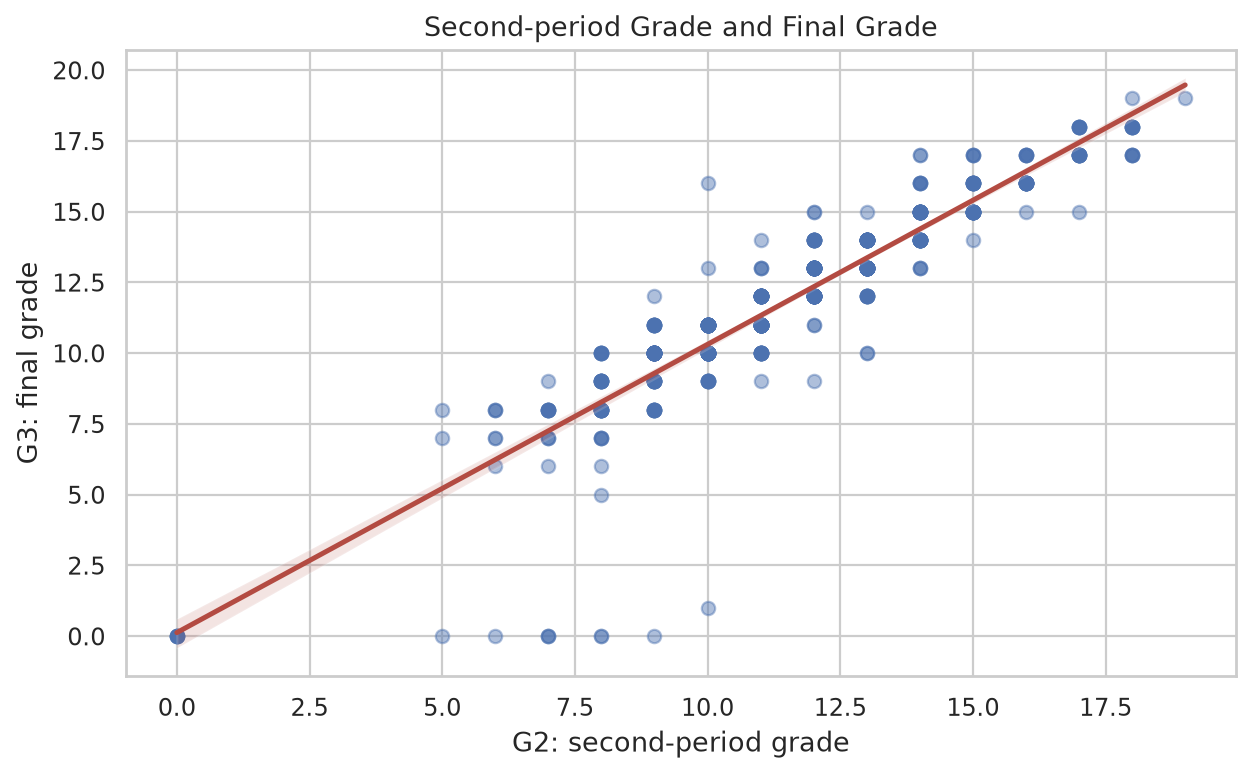
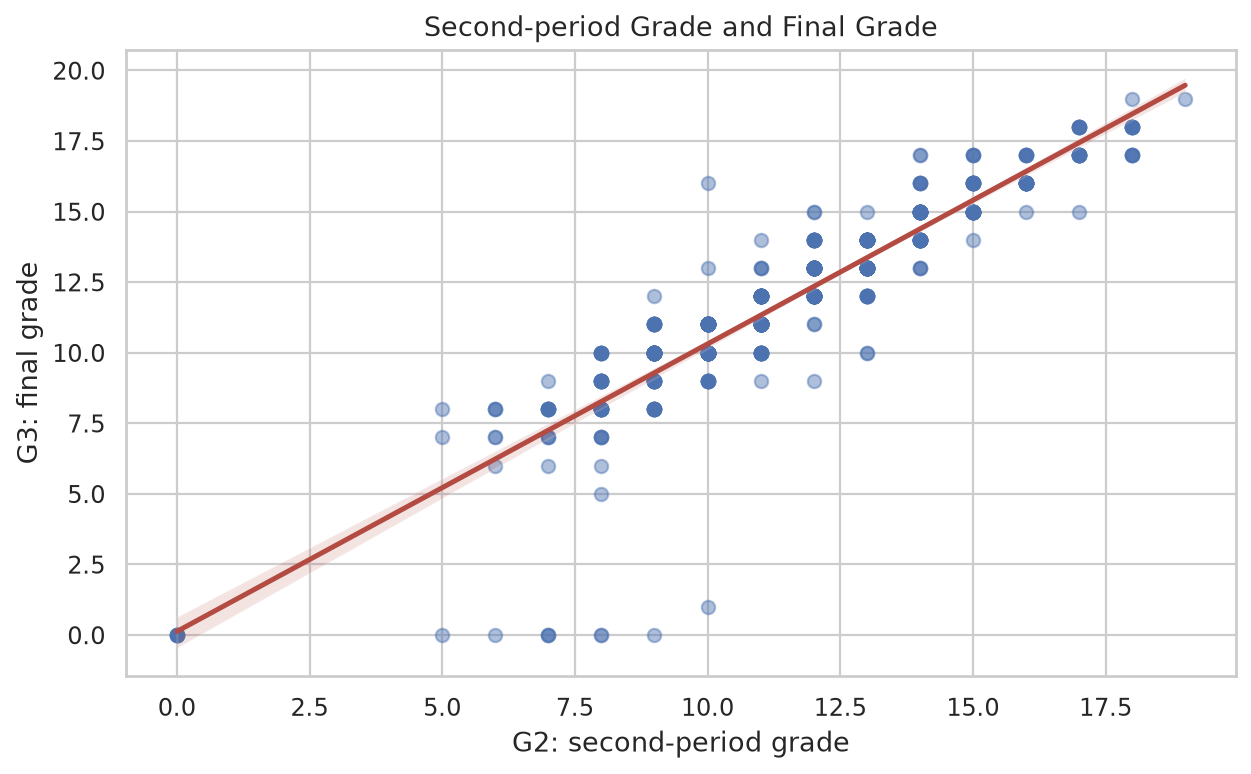
Publish student performance analytics project

diff --git a/docs/index.html b/docs/index.html
@@ -1,0 +1,32 @@
+<!doctype html>
+<html lang="en">
+<head>
+<meta charset="utf-8"><meta name="viewport" content="width=device-width, initial-scale=1">
+<meta name="description" content="Education Performance Analytics: reproducible student final-grade regression using the UCI Student Performance dataset.">
+<title>Education Performance Analytics</title>
+<style>
+:root{--ink:#14263d;--muted:#5a6d82;--paper:#f4f7f8;--panel:#fff;--accent:#147d75;--line:#dbe4e9;--warm:#edaa61}*{box-sizing:border-box}body{margin:0;background:var(--paper);color:var(--ink);font:16px/1.65 system-ui,-apple-system,"Segoe UI",sans-serif}a{color:var(--accent)}.hero{padding:clamp(2rem,7vw,6rem) max(7vw,calc((100vw - 1120px)/2));background:linear-gradient(125deg,#102239,#1a4760);color:#f7fbfc;position:relative;overflow:hidden}.hero:after{content:"G3";position:absolute;right:7vw;top:5%;font-size:clamp(8rem,24vw,19rem);font-weight:800;color:#ffffff0d;line-height:1}.eyebrow{text-transform:uppercase;letter-spacing:.16em;color:#93d5c6;font-size:.78rem;font-weight:700}.hero h1{font-size:clamp(2.3rem,6vw,4.7rem);line-height:1.04;max-width:750px;margin:.7rem 0 1rem;position:relative;z-index:1}.hero p{max-width:700px;color:#d3e3e9;font-size:1.1rem}.hero a{color:#a2e4d0}.wrap{max-width:1120px;margin:auto;padding:2rem 1.3rem 4rem}.metrics{display:grid;grid-template-columns:repeat(4,1fr);gap:1rem;margin-top:-2rem;position:relative}.card{background:var(--panel);border:1px solid var(--line);border-radius:14px;padding:1.2rem;box-shadow:0 8px 28px #1234}.metric strong{display:block;font-size:1.8rem;letter-spacing:-.03em;color:var(--accent)}.metric span{font-size:.9rem;color:var(--muted)}section{margin-top:3.2rem}h2{font-size:1.7rem;line-height:1.2}h3{margin:.3rem 0}.note{border-left:4px solid var(--warm);padding:.8rem 1rem;background:#fff9ef;border-radius:0 10px 10px 0}.grid{display:grid;grid-template-columns:repeat(2,1fr);gap:1rem}.figure{margin:0;overflow:hidden}.figure img{display:block;width:100%;height:auto;border-radius:8px;border:1px solid var(--line)}.figure figcaption{font-size:.92rem;color:var(--muted);padding:.7rem 0}.pill{display:inline-block;border:1px solid #aad8cd;background:#edf8f5;color:#17675f;padding:.25rem .65rem;border-radius:999px;font-size:.82rem;margin:.2rem}.footer{border-top:1px solid var(--line);margin-top:3rem;padding-top:1rem;color:var(--muted);font-size:.9rem}code{background:#e8eef1;padding:.1rem .3rem;border-radius:4px}@media(max-width:720px){.metrics{grid-template-columns:repeat(2,1fr)}.grid{grid-template-columns:1fr}.hero:after{right:-3rem;top:25%}}
+</style>
+</head>
+<body>
+<header class="hero"><div class="eyebrow">Reproducible data science · Regression</div><h1>Education Performance Analytics</h1><p>A transparent student-success prediction project estimating a final course grade from prior academic results and documented background features—built for learning, not automated decisions.</p><p><a href="https://github.com/Vignesh6989348/education-performance-analytics">Browse the project repository</a> · <a href="https://archive.ics.uci.edu/dataset/320/student+performance">Dataset source: UCI</a></p></header>
+<main class="wrap">
+<div class="metrics" aria-label="Final held-out evaluation metrics">
+<div class="card metric"><strong>649</strong><span>Portuguese-course records</span></div>
+<div class="card metric"><strong>0.767</strong><span>Test MAE · grade points</span></div>
+<div class="card metric"><strong>1.219</strong><span>Test RMSE · grade points</span></div>
+<div class="card metric"><strong>0.848</strong><span>Test R²</span></div>
+</div>
+<section><h2>What is being predicted?</h2><div class="card"><p><strong>Target:</strong> <code>G3</code>, the final-period grade on a 0–20 scale. Prediction is made <strong>after G2</strong> (second-period grade) is available. Earlier grades <code>G1</code> and <code>G2</code> are inputs; <code>G3</code> is never a feature.</p><p>UCI's Portuguese-course file contains 649 records. The project compares a mean baseline, Linear Regression, Random Forest, and Extra Trees. Model selection uses a validation split; the separate test partition is kept for final reporting. The selected Extra Trees test scores shown above are measured from model predictions, not invented metrics.</p><span class="pill">60% train</span><span class="pill">20% validation</span><span class="pill">20% test</span><span class="pill">random_state=42</span></div></section>
+<section><h2>Results and exploration</h2><p>All charts use source data or held-out predictions. Correlation and feature importance describe associations or model reliance—not causation.</p><div class="grid">
+<figure class="card figure"><img src="assets/01_g3_distribution.png" alt="Histogram of observed final grades"><figcaption><strong>Final-grade distribution.</strong> Shows the observed spread of G3 scores in the source subset.</figcaption></figure>
+<figure class="card figure"><img src="assets/02_g2_vs_g3.png" alt="Second-period grade plotted against final grade"><figcaption><strong>G2 and G3.</strong> Relates the prior-period grade to the final target.</figcaption></figure>
+<figure class="card figure"><img src="assets/03_numeric_correlations.png" alt="Heatmap of pairwise numeric variable correlations"><figcaption><strong>Numeric correlations.</strong> Pairwise association summary; it does not show causal effects.</figcaption></figure>
+<figure class="card figure"><img src="assets/04_studytime_g3.png" alt="Boxplot of final grades by study-time category"><figcaption><strong>Study-time groups.</strong> Compares G3 by self-reported weekly study-time category.</figcaption></figure>
+<figure class="card figure"><img src="assets/05_model_comparison.png" alt="Test MAE and RMSE by regression model"><figcaption><strong>Model comparison.</strong> Test-set MAE and RMSE in grade points; lower is better.</figcaption></figure>
+<figure class="card figure"><img src="assets/06_actual_vs_predicted.png" alt="Actual and predicted final grades with identity line"><figcaption><strong>Actual vs predicted.</strong> Test predictions against actual G3; the diagonal indicates exact agreement.</figcaption></figure>
+<figure class="card figure"><img src="assets/07_permutation_importance.png" alt="Held-out permutation importance by feature"><figcaption><strong>Permutation importance.</strong> How test-set R² changes when inputs are shuffled; not a causal ranking.</figcaption></figure>
+</div></section>
+<section><h2>Scope, limitations & responsible use</h2><div class="card"><ul><li>The historical dataset describes students from two Portuguese secondary schools. Generalization elsewhere is not established.</li><li>It contains no explicit attendance rate, assignment scores, internal marks, or engagement telemetry. Absences are a count; study time is self-reported.</li><li>Grades and social background can be sensitive. This site presents aggregate evaluation only and does not publish row-level records or student identifiers.</li><li>Predictions are uncertain estimates to support educators—not to determine student opportunities or outcomes automatically.</li></ul><p>Source: Cortez, P. (2008), <a href="https://doi.org/10.24432/C5TG7T">UCI Student Performance (CC BY 4.0)</a>.</p></div></section>
+<footer class="footer">Academic demonstration · Target G3 · <a href="https://github.com/Vignesh6989348/education-performance-analytics">Source code, tests, notebook and measured results on GitHub</a></footer>
+</main></body></html>

diff --git a/src/train.py b/src/train.py
@@ -81,7 +81,7 @@ def run():
     MODEL_DIR.mkdir(exist_ok=True); joblib.dump(best, MODEL_DIR/"selected_model.joblib")
     sample = X_test.iloc[[0]]
     estimate = float(best.predict(sample)[0])
-    summary = f"Selected model: {winner}\nSelection: lowest validation-set MAE, tie-break lower validation RMSE\nFinal untouched test metrics: {regression_metrics(y_test, predictions[winner])}\nSample prediction: {estimate:.2f}/20 (estimate, not guaranteed result)\nSample inputs:\n{sample.to_string(index=False)}\n"
+    summary = f"Selected model: {winner}\nSelection: lowest validation-set MAE, tie-break lower validation RMSE\nFinal untouched test metrics: {regression_metrics(y_test, predictions[winner])}\nDemonstration prediction on a held-out public-dataset record: {estimate:.2f}/20 (estimate, not guaranteed result; row-level input values are intentionally not written to this report)\n"
     (ROOT/"reports"/"run_summary.txt").write_text(summary)
     print(comparison.to_string(index=False, float_format=lambda x: f"{x:.3f}"))
     print(f"\nSelected: {winner}\nExample G3 estimate: {estimate:.2f}/20\nOutputs: reports/ and models/selected_model.joblib")

diff --git a/README.md b/README.md
@@ -2,6 +2,8 @@
 
 A reproducible regression project estimating Portuguese-course final grade (**G3**, scale 0–20) from the UCI Student Performance dataset. It demonstrates acquisition, data checks, EDA, pipelines, model comparison, interpretation, and prediction.
 
+Project overview site: [`docs/index.html`](docs/index.html) (configured for GitHub Pages from the `/docs` folder on `main`).
+
 ## Dataset and design
 - **Source:** [UCI Student Performance](https://archive.ics.uci.edu/dataset/320/student+performance), DOI [10.24432/C5TG7T](https://doi.org/10.24432/C5TG7T), CC BY 4.0. Citation: Cortez, P. (2008), *Student Performance*.
 - **Subset:** Portuguese course (`student-por.csv`), 649 rows; source has 33 columns including target.
